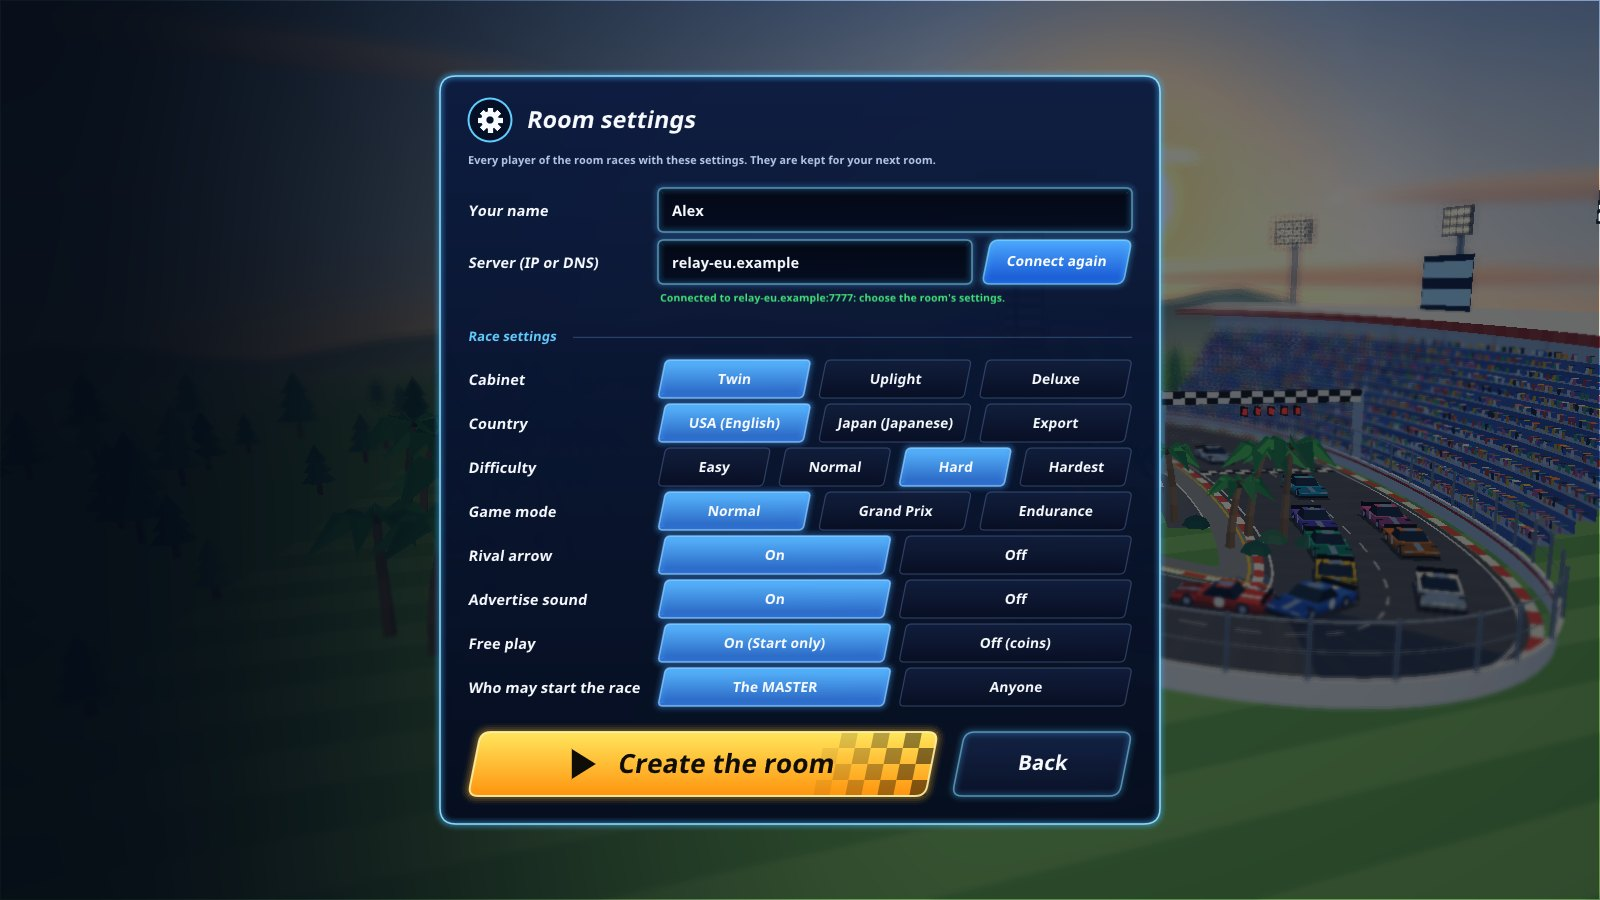
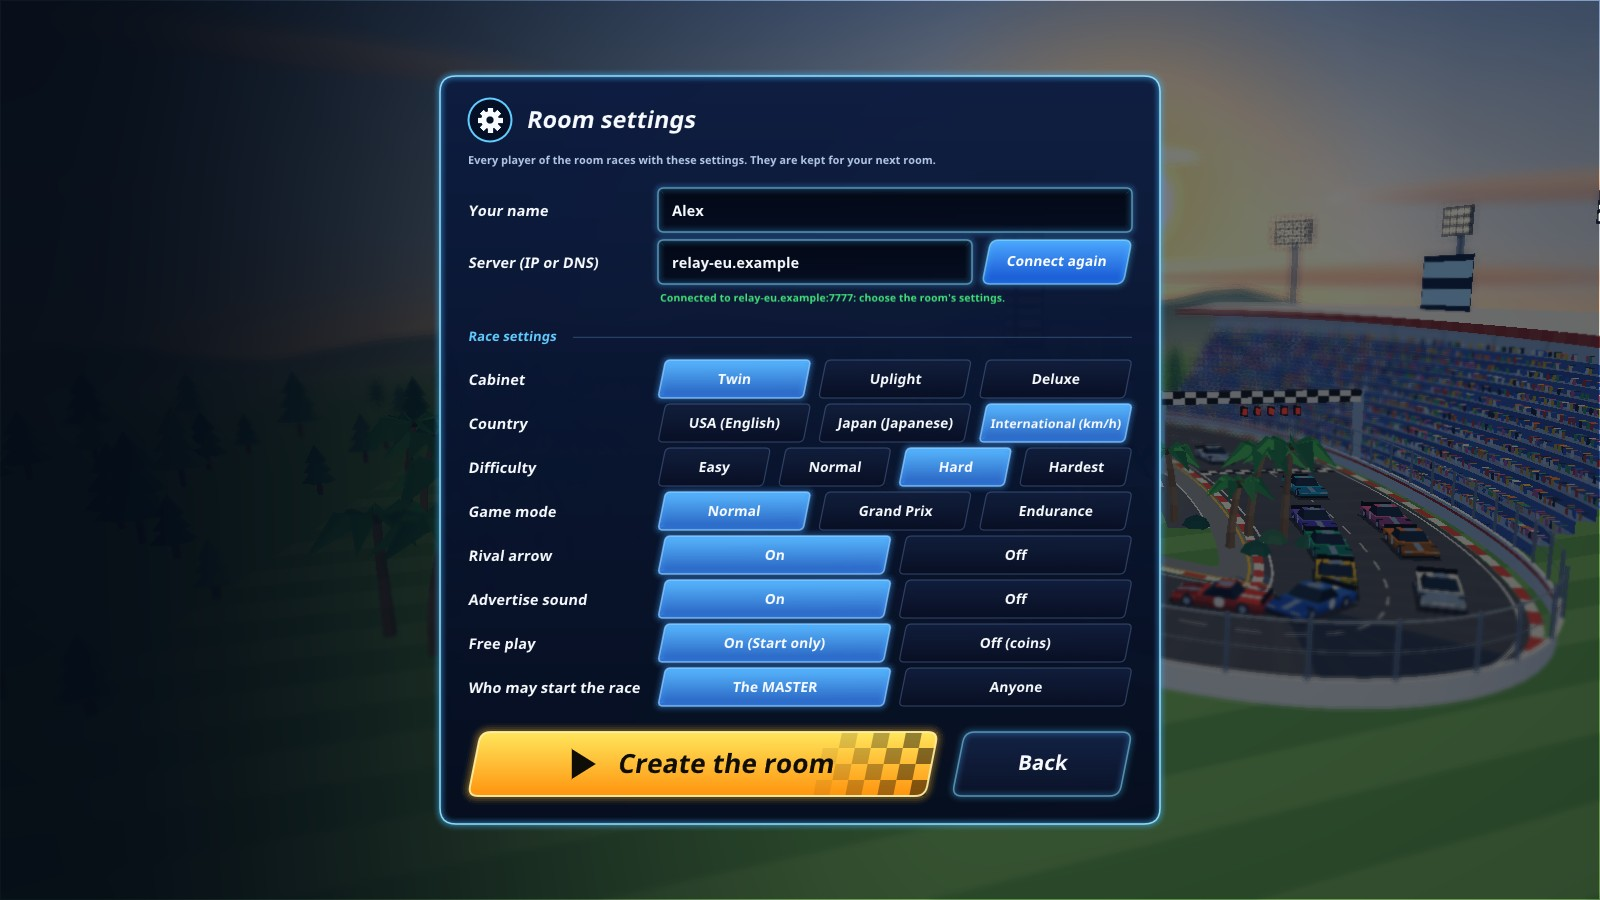
Docs: screenshots and the guide at 0.24.0; two working rules
The README's six screenshots taken again at 0.24.0 (four Settings tabs,
International (km/h), Advanced > AI textures). getting-started.md points
at the settings' new places and describes Render resolution as it is.
Rule 23: every platform builds from the release commit before its tag.
Rule 13: a change to what a screenshot shows retakes it in that commit.
75/75.

Changed region(s): [[0.5938, 0.4356, 0.7188, 0.4978], [0.4062, 0.4356, 0.5312, 0.4978]]

diff --git a/src/app/launcher.cpp b/src/app/launcher.cpp
@@ -963,7 +963,8 @@ Launcher::Result Launcher::draw(bool game_running, const Devices &devices, bool 
     }
     ImGui::Spacing();
 
-    // diagnostic: M2_CAPTURE_SETTINGS_TAB=N opens tab N (0 Game .. 5 Sound, 6 AI textures) once, for a --capture-home image
+    // diagnostic: M2_CAPTURE_SETTINGS_TAB=N opens a tab once, for a --capture-home image: 0 Main, 7 Cars,
+    // 4 Controls, 8 Advanced (M2_CAPTURE_SETTINGS_SECTION=N opens its section N: 0 Game .. 4 AI textures)
     static int open_tab = [] {
         const char *v = std::getenv("M2_CAPTURE_SETTINGS_TAB");
         return v && *v ? std::atoi(v) : -1;

diff --git a/docs/getting-started.md b/docs/getting-started.md
@@ -138,15 +138,15 @@ scratch, when the game's folder cannot be written).
 Revision A is `build-daytona/daytona` (`build-daytona\Release\daytona.exe`
 on Windows); it keeps its own settings and saves.
 
-A launcher opens first. On the **Game** tab, click **Browse...**, choose
+A launcher opens first. In **Settings > Advanced > Game**, click **Browse...**, choose
 the same `roms/daytona93.zip` (`roms/daytona.zip` for Revision A), and
 wait for the line under it to say "All 30 files verified." Then click
 **Start**. The launcher remembers the file
 next time. **Controls** sets your keys, gamepad and wheel. In the game,
 **Esc** brings the launcher back.
 
-**Wheel and pedals** (optional, experimental: not yet tested on a real
-wheel; reports welcome): on the **Controls** tab, the **Wheel / joystick**
+**Wheel and pedals** (optional, experimental: force feedback tested on a
+gamepad, not yet on a real wheel; reports welcome): on the **Controls** tab, the **Wheel / joystick**
 column takes any wheel, pedal set or shifter, even as separate
 USB devices. Click the box next to **Steer left**, turn the wheel left as
 far as you want full lock to be, and let go; do the same for **Steer
@@ -161,22 +161,22 @@ because SDL's own driver gives the newer Logitech wheels force feedback
 there; tick it if a Logitech wheel is listed but does nothing when you bind
 it. After changing it, restart the game and bind the wheel again.
 
-**Fullscreen mode and frame pacing** (optional, on the Game tab): the game
+**Fullscreen mode and frame pacing** (optional, in Advanced > Display): the game
 runs at the arcade's own speed, 57.52 frames/s, on any display. On a 60 Hz
 display that means a frame shown twice about every 0.4 s, and on a 144 Hz
 one a slight unevenness. **Fullscreen mode** picks an exclusive mode, such
-as a 57.52 Hz mode made in your graphics driver's settings; then tick
-**Smooth pacing on a 57.52 Hz display**. **VRR pacing** is for G-Sync or
+as a 57.52 Hz mode made in your graphics driver's settings; **Smooth pacing
+on a 57.52 Hz display**, on by default, then shows one frame per refresh. **VRR pacing** is for G-Sync or
 FreeSync displays: the display refreshes at the game's rate. **Sync to
 display** runs the game at 60 frames/s on a 60, 120 or 240 Hz display,
 perfectly smooth but about 4% faster than the arcade. Hover over each for
 details; the line under them says what is in effect.
 
-**Language**: the **Langue / Language** menu at the top of the launcher
-switches the interface between French and English (more languages to
-come); the choice is kept.
+**Language**: the **Language** menu at the top of Settings
+switches the interface between English, French and Brazilian Portuguese;
+the choice is kept.
 
-**Picture format**: first under **Display**. **Arcade 4:3** is the
+**Picture format**: first on the **Main** tab (and under Advanced > **Display**). **Arcade 4:3** is the
 cabinet's picture, centred with bars on a wide screen; **Automatic** takes
 the window's shape; 16:10, 16:9 or 21:9 keep their own. In the wide formats
 you see more of the scene at the sides, nothing is stretched, and the HUD
@@ -186,29 +186,30 @@ sides. In a race the sky at the sides is plain blue; tick **Stretch tile
 background (Experimental)** to stretch the game's own sky picture across
 the whole screen instead. All apply straight away, even mid-race.
 
-**Draw mode** (on the Game tab): **Double buffered** draws every frame, as
+**Draw mode** (in Advanced > Display): **Double buffered** draws every frame, as
 the arcade game does. **Single buffered** draws every second frame and
 **Every third frame** every third: much less work for slower machines. The
 game itself still runs at full speed; only the picture updates less often.
 
-**Super sampling** (on the Game tab, with **Renderer** set to **Hardware**):
-**Off** by default; **2x**, **3x** or **4x** draws the 3D at that many times the original
-resolution, with sharper textures; the HUD and text keep their pixel-art
-look. On a screen smaller than the picture it is scaled down, which also
-smooths jagged edges. Higher settings need a stronger GPU.
+**Render resolution** (in Advanced > Display, with **Renderer** set to **Hardware**):
+**Native** draws the 3D at the screen's own resolution; **2x**, **3x** or **4x**
+at that many times the arcade's, never past the screen's (more pixels than
+the screen shows only cost the graphics card). The HUD and text keep their
+pixel-art look. Higher settings need a stronger GPU; **Detect
+automatically** on the Main tab picks a level for the graphics card.
 
-**Draw distance** (optional): the slider under **Enhancements** sets how far
+**Draw distance** (optional): the slider under Advanced > **Enhancements** sets how far
 ahead trees, rocks and buildings are drawn. **Default** is the game's own.
 **Shorter** and **Shortest** draw less and run faster, which helps slower
 machines; **Further** and **Furthest** draw more. The road itself is not
 affected yet.
 
-**Audio** tab: **Volume** and **Mute**, and **Music** and **Effects**
+**Sound** (Advanced; the volume is on the Main tab too): **Volume** and **Mute**, and **Music** and **Effects**
 for the balance between the music and everything else (the engine, skids,
 crashes). Both at 100% is the game as the arcade's sound board mixes it.
 
-**Test menu without an F2 key** (phones, tablets): tick **Hold Test button**
-next to Start, then Start or Resume. Once the game is running, the Test
+**Test menu without an F2 key** (phones, tablets): tick **Hold the Test
+button** in Advanced > Game, then Start or Resume. Once the game is running, the Test
 button is held for 3 seconds and the test menu opens (coin settings, game
 type, cabinet); the box clears itself.
 
@@ -225,7 +226,7 @@ cabinet, so it waits at the settings screen for a second cabinet. Press
 mode does it through the relay server, also on a local network (see the
 README, "Playing on a local network").
 
-To skip the launcher, tick **Skip launcher** on the Game tab: from then on
+To skip the launcher, tick **Skip the launcher** in Advanced > Display: from then on
 the game starts straight away (Esc still brings the launcher back, where you
 can untick it). If the ROM set is missing or wrong, the launcher shows
 anyway, with the reason. For one run only:

diff --git a/rules.md b/rules.md
@@ -105,7 +105,12 @@ instead: rules 19 and 20.
 13. **`CHANGELOG.md` is updated in the same commit as any change a player or
     a contributor would notice**: what it does, in plain words, under the
     right heading, and any new known limit. A finding that lives only in a
-    commit message is lost.
+    commit message is lost. **A change to what a screenshot shows** (a
+    screen, a label, a default, a tab) **takes that screenshot again in the
+    same commit**: `docs/images/`, made with `--capture-home` (CLAUDE.md,
+    "Seeing the game without clicking"), at the same size (1600 x 900) and
+    in English, and the guides that name the changed screen or setting
+    are updated with it.
 14. **A version is made only when the user asks for one.** Until then,
     commits are ordinary commits: `VERSION` stays, and `CHANGELOG.md`
     collects the changes under `## Unreleased`. When a version is asked
@@ -171,7 +176,14 @@ instead: rules 19 and 20.
     `Daytona Reborn X.Y.Z`, the text in English from that version's
     `CHANGELOG.md` section, in the previous release's format, no files
     attached (rule 22). The in-game update notice reads the latest
-    release, so it is published as the latest.
+    release, so it is published as the latest. **Before the tag, every
+    platform builds from the release commit**: Linux (`scripts/docker-build.sh`,
+    `ctest`), Windows (`scripts/docker-build-windows.sh`), the relay
+    (`go test ./...` and its Linux, Windows and macOS builds), and macOS
+    as far as it can be checked here (the GitHub macOS job; the full game
+    is built on a Mac from its test package). A platform-only path
+    (`#ifdef _WIN32`, `__APPLE__`) is not built by the others: 0.24.0's
+    first tag missed a Windows build failure for that reason.
 
 ## Standing engineering rules
 

diff --git a/README.pt-BR.md b/README.pt-BR.md
@@ -236,7 +236,7 @@ do próprio aplicativo e o seu autódromo em 3D, capturados com
 | --- | --- |
 | ![O cartão Online: um código de convite colado sozinho, Criar uma sala, Entrar na sala](docs/images/home-online.jpg) | ![Numa sala: as oito vagas nas cores dos carros, o dono coroado, Começar a corrida](docs/images/home-room.jpg) |
 | **Online**: o código de convite é colado sozinho; ou crie uma sala. | **Numa sala**: as vagas nas cores dos carros, o que ela aguarda. |
-| ![As configurações da sala: nome, servidor e as configurações da corrida como opções](docs/images/room-settings.jpg) | ![Configurações: sete abas, a aba Melhorias aberta](docs/images/settings.jpg) |
+| ![As configurações da sala: nome, servidor e as configurações da corrida como opções](docs/images/room-settings.jpg) | ![Configurações: quatro abas, a aba Principal aberta: imagem, qualidade, os carros, som](docs/images/settings.jpg) |
 | **Configurações da sala**: nome, servidor e a corrida para todos os jogadores. | **Configurações**: vídeo, melhorias, controles, texturas IA, som. |
 | ![Configurações > Avançado > Texturas IA: o que este computador tem, gerar o pacote, usá-lo](docs/images/ai-textures.jpg) | |
 | **Texturas IA** (experimental): gere o pacote de texturas em alta resolução neste computador. | |

diff --git a/README.md b/README.md
@@ -224,7 +224,7 @@ frame is shown.
 | --- | --- |
 | ![The Online card: an invite code pasted on its own, Create a new room, Join the room](docs/images/home-online.jpg) | ![In a room: its eight places in the cars' colours, the owner crowned, Start the race](docs/images/home-room.jpg) |
 | **Online**: the invite code is pasted on its own; or create a room. | **In a room**: its places in the cars' colours, what it waits for. |
-| ![The room's settings: name, server, and the race settings as choices](docs/images/room-settings.jpg) | ![Settings: seven tabs, the Enhancements tab open](docs/images/settings.jpg) |
+| ![The room's settings: name, server, and the race settings as choices](docs/images/room-settings.jpg) | ![Settings: four tabs, the Main tab open: picture, image quality, the cars, sound](docs/images/settings.jpg) |
 | **Room settings**: name, server, and the race for every player. | **Settings**: display, enhancements, controls, AI textures, sound. |
 | ![Settings > Advanced > AI textures: what this computer has, making the pack, using it](docs/images/ai-textures.jpg) | |
 | **AI textures** (experimental): make the high-resolution texture pack on this computer. | |

diff --git a/CHANGELOG.md b/CHANGELOG.md
@@ -4,6 +4,19 @@ Changes in this fork, on top of Daytona Reborn beta 0.10 (`9d0eccc`). The
 fork's version is in `VERSION`, raised with every code change (rules.md
 rule 14); each version has its section here.
 
+## Unreleased
+
+### Docs: screenshots and the guide at 0.24.0
+
+- The README's six screenshots taken again at 0.24.0 (the home with
+  International (km/h), the four Settings tabs, Settings > Advanced > AI
+  textures, the room's settings). `docs/getting-started.md` points at the
+  settings' new places (Advanced > Game, Display, Enhancements, Sound),
+  says what Render resolution offers now and that the force feedback was
+  tried on a gamepad; `textures/README.md` too. Rule 23: every platform
+  builds from the release commit before its tag; rule 13: a change to
+  what a screenshot shows takes it again in the same commit.
+
 ## 0.24.0 (2026-11-27)
 
 Online version 12: every player of a room needs 0.24.0 (a 0.23.0 game is

diff --git a/textures/README.md b/textures/README.md
@@ -10,7 +10,7 @@ start the game looks in this folder:
    is turned on); a file that is not a valid pack is left out, and the
    game's log says why (`daytona: high-resolution textures: ...`);
 3. else a pack made before in the game's data folder is moved here;
-4. none: Settings > AI textures makes one from your own ROM set (Linux, for
+4. none: Settings > Advanced > AI textures makes one from your own ROM set (Linux, for
    now), saved here.
 
 ```
